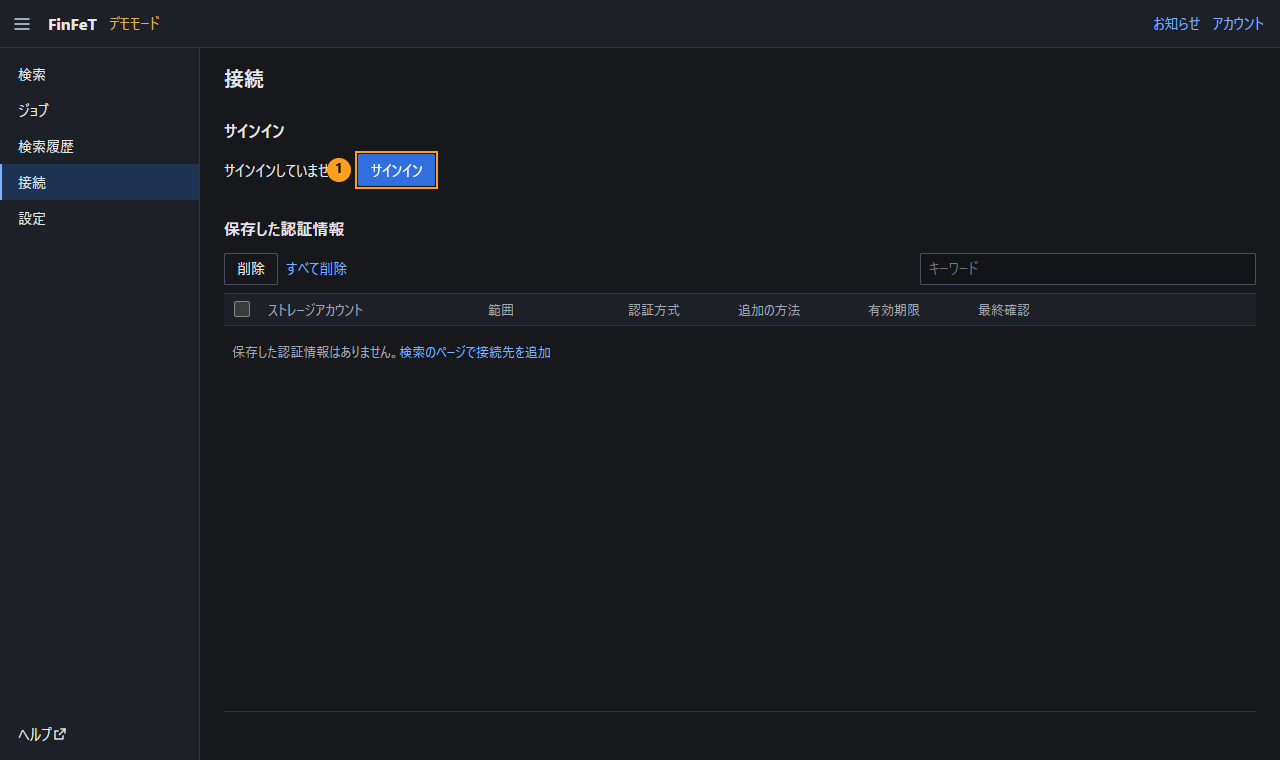
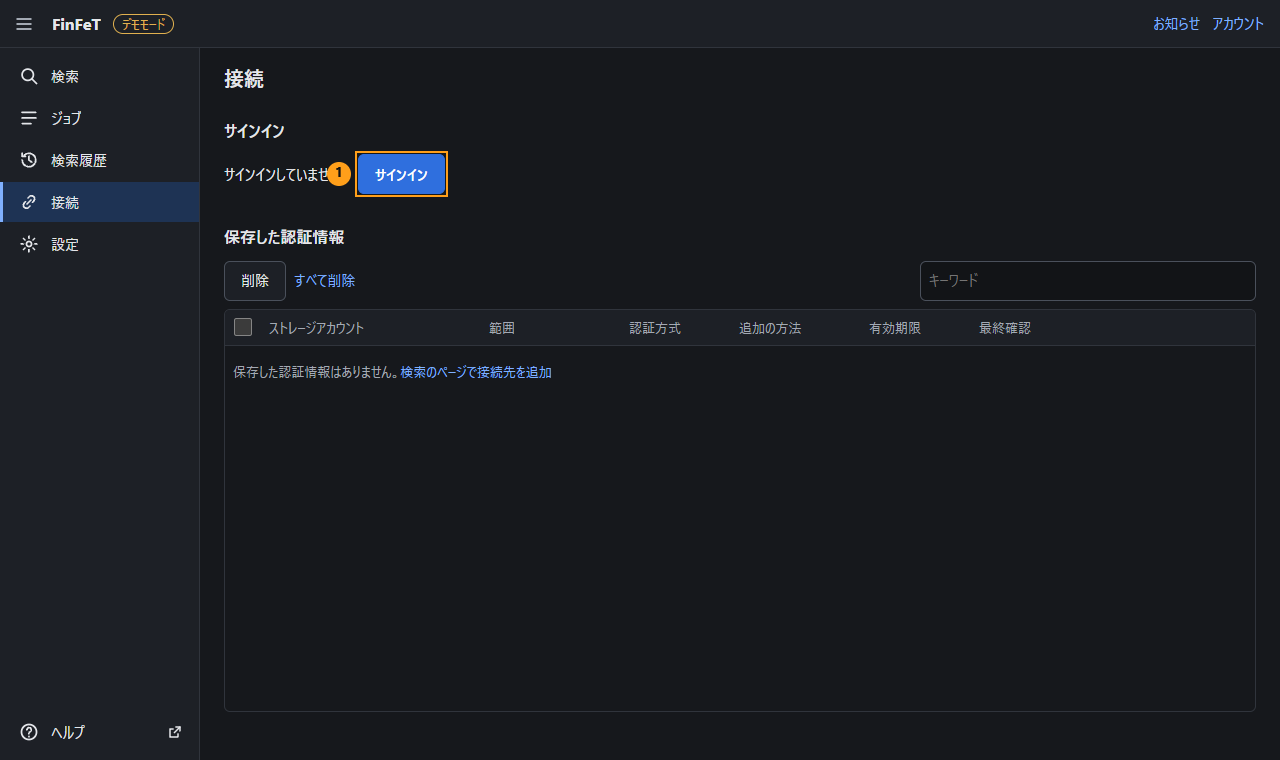
docs: 画面の表示（幅・テーマ・文字の大きさ）の説明と画面の画像、変更履歴

diff --git a/docs/usage.html b/docs/usage.html
@@ -39,6 +39,7 @@
 <li><a href="#later">後日のダウンロード、再開と再実行</a></li>
 <li><a href="#history">検索履歴を利用する</a></li>
 <li><a href="#exit">本ツールを終了する</a></li>
+<li><a href="#display">画面の表示を調整する（幅・テーマ・文字の大きさ）</a></li>
 </ol>
 </div>
 
@@ -46,7 +47,7 @@
 <p>Microsoft Entra ID のアカウントで Azure にサインインします。アクセスキー・SAS・接続文字列だけを使用する場合、サインインは不要です。その場合は「<a href="#target">2. 接続先を追加する</a>」に進んでください。</p>
 <figure class="shot"><img src="images/01-connections-signin.png" alt="接続のページ。サインインしていない状態" loading="lazy"></figure>
 <ol class="marks">
-<li>画面の左側の [接続] をクリックして接続のページを開き、[サインイン] をクリックします。</li>
+<li>ナビゲーションの [接続] をクリックして接続のページを開き、[サインイン] をクリックします。</li>
 </ol>
 <figure class="shot"><img src="images/02-signin-dialog.png" alt="サインインのダイアログ" loading="lazy"></figure>
 <ol class="marks">
@@ -70,7 +71,7 @@
 <p>「接続先」は、検索の対象とするストレージアカウントとコンテナーの組み合わせです。接続先は、検索のページで追加します。</p>
 <figure class="shot"><img src="images/04-search-empty.png" alt="検索のページ。接続先がない状態" loading="lazy"></figure>
 <ol class="marks">
-<li>画面の左側の [検索] をクリックして検索のページを開き、[接続先を追加] をクリックします。</li>
+<li>ナビゲーションの [検索] をクリックして検索のページを開き、[接続先を追加] をクリックします。</li>
 </ol>
 <figure class="shot"><img src="images/05-target-methods.png" alt="接続先の追加のダイアログ。追加の方法を選ぶ画面" loading="lazy"></figure>
 <ol class="marks">
@@ -218,6 +219,32 @@
 <p>本ツールを終了するには、画面の右上のメニューから [終了] を選択します。実行中のジョブがある場合は、終了してよいかを確認するメッセージが表示されます。</p>
 <p>また、本ツールの画面（ブラウザのタブ）をすべて閉じると、一定の時間（既定は 1 分）が経過した後に、本ツールは自動的に終了します。実行中のジョブや検索がある場合は、それらが完了するまで終了しません。この動作と時間は、設定のページの「画面」で変更できます。</p>
 <div class="point"><span class="label">ポイント</span>Microsoft Edge のスリープ中のタブなど、ブラウザによって一時的に停止されたタブは、閉じたものとは見なしません。</div>
+
+<h2 id="display">11. 画面の表示を調整する（幅・テーマ・文字の大きさ）</h2>
+<p>本ツールの画面は、ブラウザの幅に合わせて配置を切り替えます。PC のブラウザの幅を狭くした場合や、タブレット・スマートフォンの幅で表示した場合も、ページ全体を横方向にスクロールせずに操作できます。</p>
+<table>
+<thead><tr><th>ブラウザの幅</th><th>ナビゲーション</th><th>表とダイアログ</th></tr></thead>
+<tbody>
+<tr><td>1000px 以上</td><td>画面の左側に、名前付きで表示します。左上の [≡]（ナビゲーションの表示を切り替え）で、アイコンだけの表示に切り替えられます。</td><td>表で表示します。</td></tr>
+<tr><td>640～999px</td><td>画面の左側に、アイコンだけで表示します。</td><td>表で表示します。列が収まらない場合は、表の中だけを横方向にスクロールします。</td></tr>
+<tr><td>640px 未満</td><td>画面の下に、タブとして表示します。</td><td>表の行をカードの形で表示します。ダイアログは画面全体に表示します。</td></tr>
+</tbody>
+</table>
+<figure class="shot narrow"><img src="images/15-narrow.png" alt="幅が狭い場合の検索結果のページ。画面の下にタブ、検索結果をカードの形で表示" loading="lazy"></figure>
+<ol class="marks">
+<li>ページは、画面の下のタブで切り替えます。ヘルプは、右上のアカウントのメニューから開きます。</li>
+<li>検索結果は、1 件ずつカードの形で表示します。Blob 名の下に、層・サイズ・最終更新日時を表示します。並べ替える項目は、[並べ替え] で選択します。</li>
+<li>キーワード以外の条件（層・種類・最終更新・注意）は、[絞り込み] をクリックすると表示します。使用中の条件の数は、ボタンに表示します。</li>
+</ol>
+<p>検索・ジョブの作成などの主な操作のボタンは、ページのスクロールの位置にかかわらず、画面の下に表示します。</p>
+<p>テーマと文字の大きさは、設定のページの「画面」で変更します。</p>
+<figure class="shot"><img src="images/16-settings-look.png" alt="設定のページの「画面」。テーマ・文字の大きさ・自動の終了" loading="lazy"></figure>
+<ol class="marks">
+<li>テーマ: ダーク（既定）、ライト、Windows の設定に合わせる、から選択します。</li>
+<li>文字の大きさ: 標準（既定）、大、から選択します。[大] を選択すると、文字のほか、ボタン・入力欄・表の行も大きくなります。</li>
+<li>自動の終了: 「<a href="#exit">10. 本ツールを終了する</a>」を参照してください。</li>
+</ol>
+<p>変更した設定は、[保存] をクリックすると、開いているすべての画面に反映されます。</p>
 
 <p class="muted">正しく動作しない場合は、<a href="troubleshooting.html">困ったときは</a>を参照してください。</p>
 

diff --git a/docs/index.html b/docs/index.html
@@ -30,6 +30,7 @@
 <li>パスパターン（正規表現と変数）による Blob の検索と、検索結果からの Blob の選択</li>
 <li>Archive 層の Blob のリハイドレートとダウンロード。「ジョブ」としてキューに登録し、順に実行します（日をまたいで継続できます）</li>
 <li>ダウンロードした圧縮ファイル（zip・tar・gz・bz2・xz）の展開（任意）</li>
+<li>画面の幅に合わせた表示（タブレット・スマートフォンの幅でも操作できます）と、テーマ（ダーク・ライト）・文字の大きさの設定</li>
 <li>検索履歴と、検索条件のエクスポート・インポート</li>
 </ul>
 <h2>対応していないこと</h2>

diff --git a/src/finfet_abs/web/css/layout.css b/src/finfet_abs/web/css/layout.css
@@ -22,7 +22,7 @@ body { display: flex; flex-direction: column; min-height: 100vh; min-height: 100
 .topbar .spacer { flex: 1; }
 .topbar .conn-lost { color: var(--danger); min-width: 0; }
 .topbar .link-btn { min-height: var(--tap-small); }
-.topbar #account-btn { min-width: 0; max-width: 32ch; overflow: hidden; text-overflow: ellipsis; display: block; }
+.topbar #account-btn { min-width: 0; max-width: 32ch; overflow: hidden; text-overflow: ellipsis; white-space: nowrap; display: block; }
 
 .shell { display: flex; flex: 1; min-height: 0; }
 

diff --git a/CHANGELOG.md b/CHANGELOG.md
@@ -2,6 +2,19 @@
 
 ## 未リリース
 
+### 追加
+
+- 設定の「画面」に、テーマ（ダーク・ライト・Windows の設定に合わせる）と文字の大きさ（標準・大）を加えました。既定は、これまでと同じダーク・標準です
+
+### 変更
+
+- 画面全体を作り直しました。ブラウザの幅に合わせて、配置を 3 段階で切り替えます（1000px 以上: 左側に名前付きのナビゲーション、640～999px: アイコンだけのナビゲーション、640px 未満: 画面の下のタブ）
+- 幅が 640px 未満の場合は、表の行をカードの形で表示し（並べ替えのメニュー付き）、ダイアログを画面全体に表示します。検索結果の絞り込みは、[絞り込み] で開閉します
+- 幅が狭い場合は、項目の名前を入力欄の上に置きます。名前と入力欄はひとまとまりで折り返し、名前だけが行の端に残らないようにしました
+- 検索・ジョブの作成などの主な操作のボタンを、画面の下に固定して表示します
+- ボタンと入力欄の高さを 40px 前後にそろえ、タッチ操作でも押しやすくしました。ヘルプは、アカウントのメニューからも開けます
+- 使い方に「画面の表示を調整する」の説明を加え、画面の画像を作り直しました
+
 ## 1.3.0（2026-11-22）
 
 ### 追加
